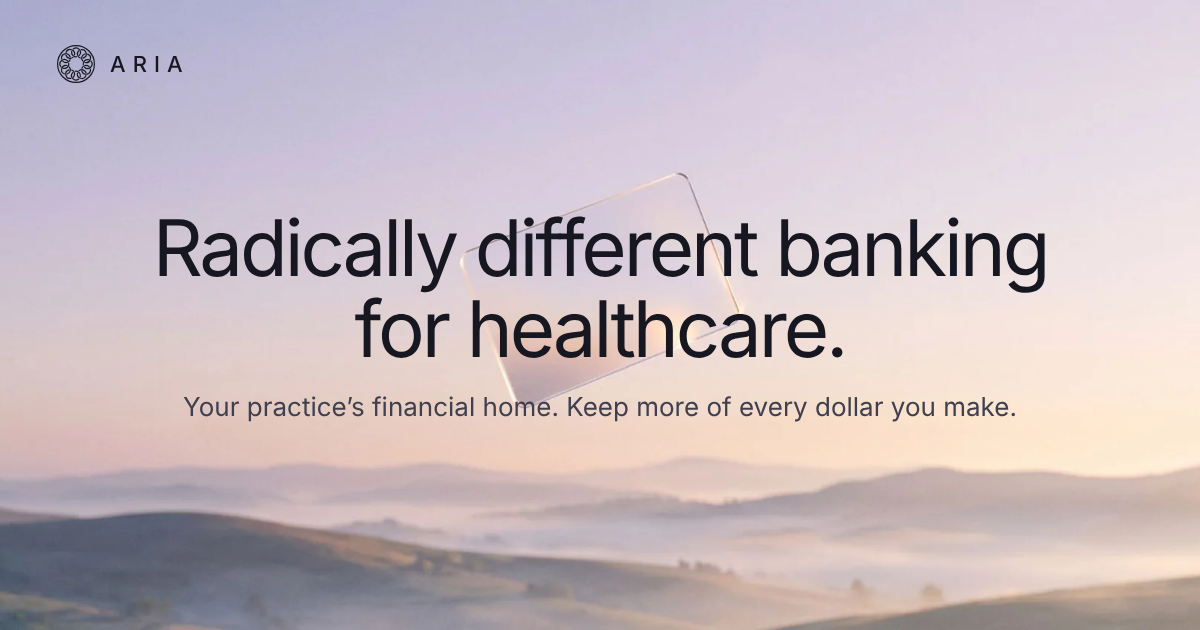
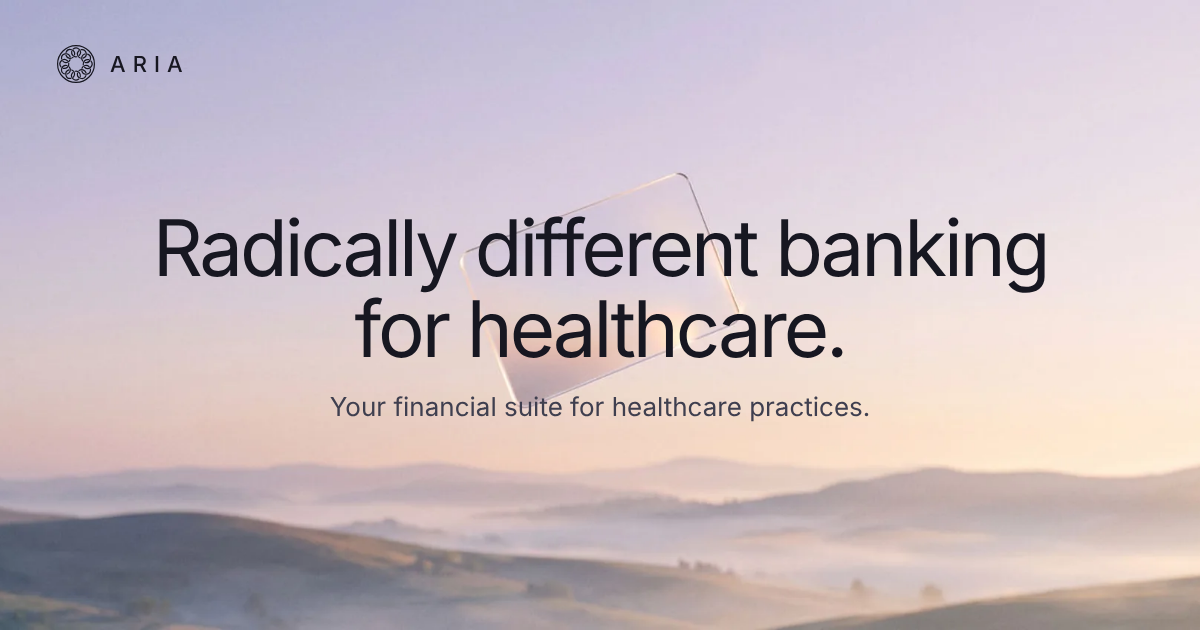
App: financial suite tagline and refreshed link preview
Claude-Session: https://claude.ai/code/session_01BdY5oeBxTr2B76PjyxR4w2

Changed region(s): [[0.1542, 0.6333, 0.8633, 0.6635]]

diff --git a/app/layout.tsx b/app/layout.tsx
@@ -2,9 +2,9 @@ import './globals.css';
 import type { ReactNode } from 'react';
 export const metadata = {
   metadataBase: new URL('https://cfo-hub-jade.vercel.app'),
-  title: 'Aria', description: 'Your practice’s financial home. Accounts, cards, buy-and-bill lending and bill pay for healthcare.', robots: { index: false },
-  openGraph: { type: 'website', siteName: 'Aria', title: 'Aria: radically different banking for healthcare', description: 'Your practice’s financial home. Keep more of every dollar you make.', images: [{ url: '/og.png?v=21', width: 1200, height: 630, alt: 'Aria: radically different banking for healthcare' }] },
-  twitter: { card: 'summary_large_image', title: 'Aria: radically different banking for healthcare', description: 'Your practice’s financial home. Keep more of every dollar you make.', images: ['/og.png?v=21'] },
+  title: 'Aria', description: 'Your financial suite for healthcare practices. Accounts, cards, buy-and-bill lending and bill pay.', robots: { index: false },
+  openGraph: { type: 'website', siteName: 'Aria', title: 'Aria: radically different banking for healthcare', description: 'Your financial suite for healthcare practices.', images: [{ url: '/og.png?v=22', width: 1200, height: 630, alt: 'Aria: radically different banking for healthcare' }] },
+  twitter: { card: 'summary_large_image', title: 'Aria: radically different banking for healthcare', description: 'Your financial suite for healthcare practices.', images: ['/og.png?v=22'] },
 };
 export default function Root({ children }: { children: ReactNode }) {
   return (<html lang="en"><head><link rel="preconnect" href="https://fonts.googleapis.com" /><link rel="preconnect" href="https://fonts.gstatic.com" crossOrigin="" /><link rel="stylesheet" href="https://fonts.googleapis.com/css2?family=Inter:wght@400;500;600;700&display=swap" /></head><body>{children}</body></html>);
